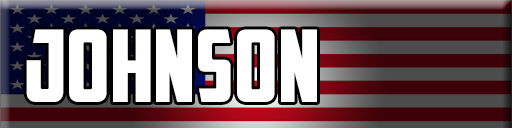
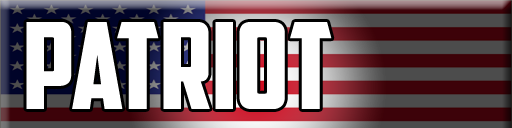
Upgraded menu
Made the menu nicer - text boxes are a little better too.

diff --git a/Assets/Scripts/menu/MP.cs b/Assets/Scripts/menu/MP.cs
@@ -72,24 +72,27 @@ public class MP : MonoBehaviour
         exitStyle.alignment = TextAnchor.UpperCenter;
 
         GUIStyle field = new GUIStyle();
-        field.normal.background = HudOn.fillTex(10,10,Color.black);
+        //field.normal.background = HudOn.fillTex(10,10,Color.black);
         field.padding = new RectOffset(15, 15, 15, 15);
-        field.normal.textColor = Color.white;
+        field.normal.textColor = Color.black;
         field.alignment = TextAnchor.MiddleCenter;
         field.font = deco;
         field.fontSize = 32;
 
-        if (joinScreen && Camera.main.transform.position.x >= 75)
+        if (joinScreen && PilotName.showBox)
         {
-            playerName = GUI.TextField(new Rect((Screen.width / 2) + 50, (Screen.height / 4) + 40, 300, 50), playerName, 10, field);
+            playerName = GUI.TextField(new Rect((Screen.width / 2) + 50, (Screen.height / 4) + 40, (Screen.width / 3), (Screen.width / 16)), playerName, 12, field);
             playerName = playerName.ToUpper();
         }
 
-        if (hostScreen && Camera.main.transform.position.x >= 75)
+        if (hostScreen && PilotName.showBox)
         {
-            playerName = GUI.TextField(new Rect((Screen.width / 2) + 50, (Screen.height / 4) + 40, 300, 50), playerName, 10, field);
+            playerName = GUI.TextField(new Rect((Screen.width / 2) + 50, (Screen.height / 4) + 40, (Screen.width / 3), (Screen.width / 16)), playerName, 12, field);
             playerName = playerName.ToUpper();
-            serverName = GUI.TextField(new Rect((Screen.width / 10), (Screen.height / 4) + 40, 300, 50), serverName, 10, field);
+		}
+		if (hostScreen && PilotName.showBox2)
+		{
+            serverName = GUI.TextField(new Rect((Screen.width / 8), (Screen.height / 4) + 40, (Screen.width / 3), (Screen.width / 16)), serverName, 12, field);
             serverName = serverName.ToUpper();
         }
 
@@ -107,6 +110,7 @@ public class MP : MonoBehaviour
             GameObject header = GameObject.Find("SBrowserHeader");
             GameObject subheader = GameObject.Find("SBrowserSelect");
             GameObject heading1 = GameObject.Find("SGameName");
+			GameObject serverNameBox = GameObject.Find("SDetailsNameBox2");
 
             // HOST ONLINE GAME
             if (GUI.Button(new Rect(Screen.width / 2 - (butWidth/2), Screen.height / 2 - 60, butWidth, butHeight), "HOST ONLINE GAME"))
@@ -115,6 +119,8 @@ public class MP : MonoBehaviour
                 header.GetComponent<TextMesh>().text = "HOST ONLINE GAME";
                 subheader.GetComponent<TextMesh>().text = "CREATE A SERVER";
                 heading1.GetComponent<TextMesh>().text = "NAME YOUR GAME";
+				serverNameBox.renderer.enabled = true;
+				
                 GameObject browserbg = GameObject.Find("SBrowserBG");
                 iTween.FadeTo(browserbg, charbgAlpha, 4f);
                 iTween.MoveTo(Camera.main.gameObject, new Vector3(75, 0, 0), 4);
@@ -129,6 +135,8 @@ public class MP : MonoBehaviour
                 subheader.GetComponent<TextMesh>().text = "CHOOSE AN ONLINE SERVER TO JOIN";
                 heading1.GetComponent<TextMesh>().text = "AVAILABLE SERVERS";
                 GameObject browserbg = GameObject.Find("SBrowserBG");
+				serverNameBox.renderer.enabled = false;
+				
                 iTween.FadeTo(browserbg, charbgAlpha, 4f);
                 iTween.MoveTo(Camera.main.gameObject, new Vector3(75, 0, 0), 4);
                 goingOn = false;
@@ -141,7 +149,7 @@ public class MP : MonoBehaviour
             }
         }
 
-        if (hostData != null)
+        if (hostData != null && joinScreen)
         {
             float btnYtotal;
             if (hostScreen)  {
@@ -150,13 +158,14 @@ public class MP : MonoBehaviour
             for (int i = 0; i < hostData.Length; i++)
             {
                 if (hostScreen) btnYtotal = btnY * 4 + (btnH * i) + (btnH / 2);
-                else btnYtotal = btnY * 2 + (btnH * i) + (btnH / 2);
+                else btnYtotal = btnY * 2 + (btnH * i) + (btnH / 2) + 30;
                 if (GUI.Button(new Rect(btnX - (btnX*4f) + btnW, btnYtotal, btnW*0.8f, btnH), hostData[i].gameName))
                 {
                     hostnb = i;
                     Application.LoadLevel("OnlineClient");
                 }
             }
-        }
+        }	
+		
     }
 }

diff --git a/Assets/Scripts/menu/CharChoice.cs b/Assets/Scripts/menu/CharChoice.cs
@@ -145,7 +145,7 @@ public class CharChoice : MonoBehaviour {
             {
                 StartCoroutine("changeBGTex", "china");
                 SetIndicators("china");
-                header.GetComponent<TextMesh>().text = "ZHANG";
+                header.GetComponent<TextMesh>().text = "DRAGON";
             }
         }
         else if (gameObject.name.Contains("USA")) {
@@ -154,7 +154,7 @@ public class CharChoice : MonoBehaviour {
             {
                 StartCoroutine("changeBGTex", "usa");
                 SetIndicators("usa");
-                header.GetComponent<TextMesh>().text = "JOHNSON";
+                header.GetComponent<TextMesh>().text = "PATRIOT";
             }
         }
         else if (gameObject.name.Contains("Russia")) {
@@ -163,7 +163,7 @@ public class CharChoice : MonoBehaviour {
             {
                 StartCoroutine("changeBGTex", "russia");
                 SetIndicators("russia");
-                header.GetComponent<TextMesh>().text = "MARKOV";
+                header.GetComponent<TextMesh>().text = "SPARTAK";
             }
         }
 		

diff --git a/Assets/Scripts/menu/Names.cs b/Assets/Scripts/menu/Names.cs
@@ -19,6 +19,16 @@ public class Names : MonoBehaviour
 		str.Add("Sensible Tail Recursion");
 		str.Add("Salsa Training, Revisited");
 		str.Add("Sublime Tympani Recording");
+		str.Add("Susan Turned Red");
+		str.Add("Sunday's Tragic Roast");
+		str.Add("Speedos, Thongs, Rabbits");
+		str.Add("Spaniels Terminating Robots");
+		str.Add("Southern Turkey Regiment");
+		str.Add("Star Tries Radiotherapy");
+		str.Add("Sleeping Through Rammstein");
+		str.Add("Shepherd Turned Rapper");
+		str.Add("Secretly, Timothy Rages");
+		str.Add("Swindon's Totalitarian Regime");
 		string winner = (string) str[(int) Random.Range(0,str.Count)];
 		return winner.ToUpper();
 	}

diff --git a/Assets/Scripts/menu/PilotName.cs b/Assets/Scripts/menu/PilotName.cs
@@ -1,0 +1,24 @@
+using UnityEngine;
+using System.Collections;
+
+public class PilotName : MonoBehaviour {
+	public static bool showBox = false, showBox2 = false;
+	
+	void Start () {
+		iTween.FadeTo(gameObject, 0.6f, 0.1f);	
+	}
+
+	void OnMouseEnter() {
+		iTween.FadeTo(gameObject, 1.0f, 0.5f);
+	}
+	
+	void OnMouseExit() {
+		iTween.FadeTo(gameObject, 0.6f, 0.5f);
+	}
+	
+	void OnMouseUp ()
+	{
+		if(gameObject.name.Equals("SDetailsNameBox")) showBox = true;
+		if(gameObject.name.Equals("SDetailsNameBox2")) showBox2 = true;
+	}
+}

diff --git a/Assets/Scripts/menu/Back.cs b/Assets/Scripts/menu/Back.cs
@@ -32,6 +32,8 @@ public class Back : MonoBehaviour {
             SP.singleplayerStart = false;
             MP.joinScreen = false;
             MP.hostScreen = false;
+			PilotName.showBox = false;
+			PilotName.showBox2 = false;
 		}
 	}
 }

diff --git a/Assets/Scripts/menu/Planet.cs b/Assets/Scripts/menu/Planet.cs
@@ -4,7 +4,7 @@ using System.Collections;
 public class Planet : MonoBehaviour {
 
 	void Update () {
-		transform.Rotate(Vector3.up * Time.deltaTime * 1);
+		transform.Rotate(Vector3.up * Time.deltaTime * 0.3f);
 	}
 	
 }
